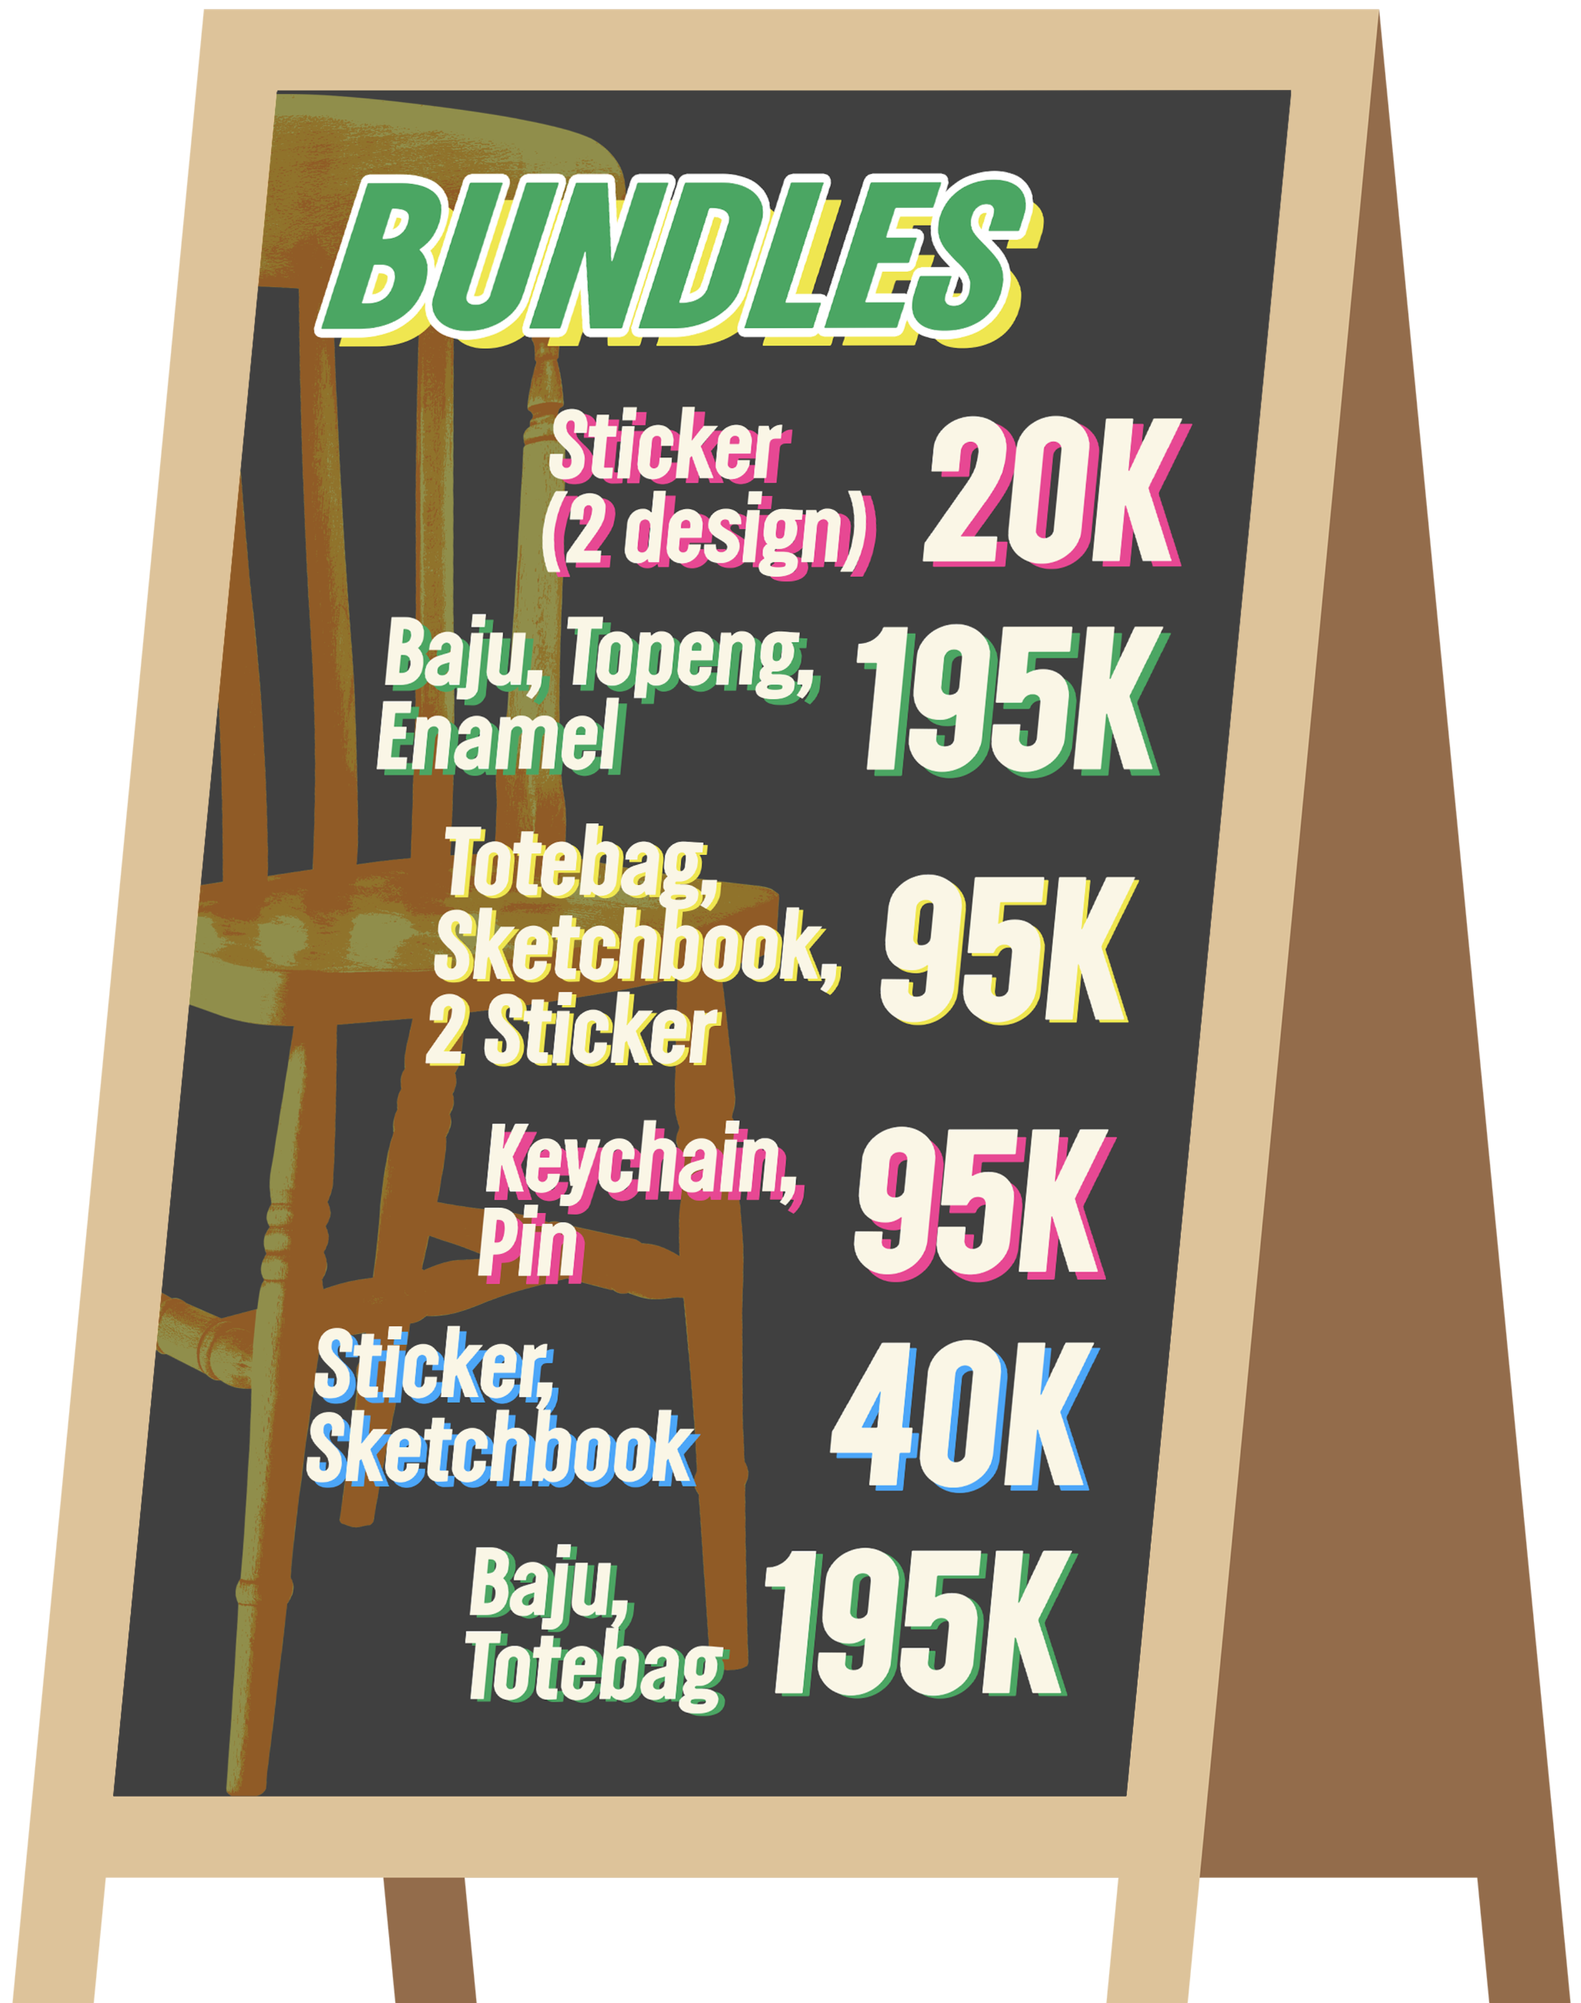
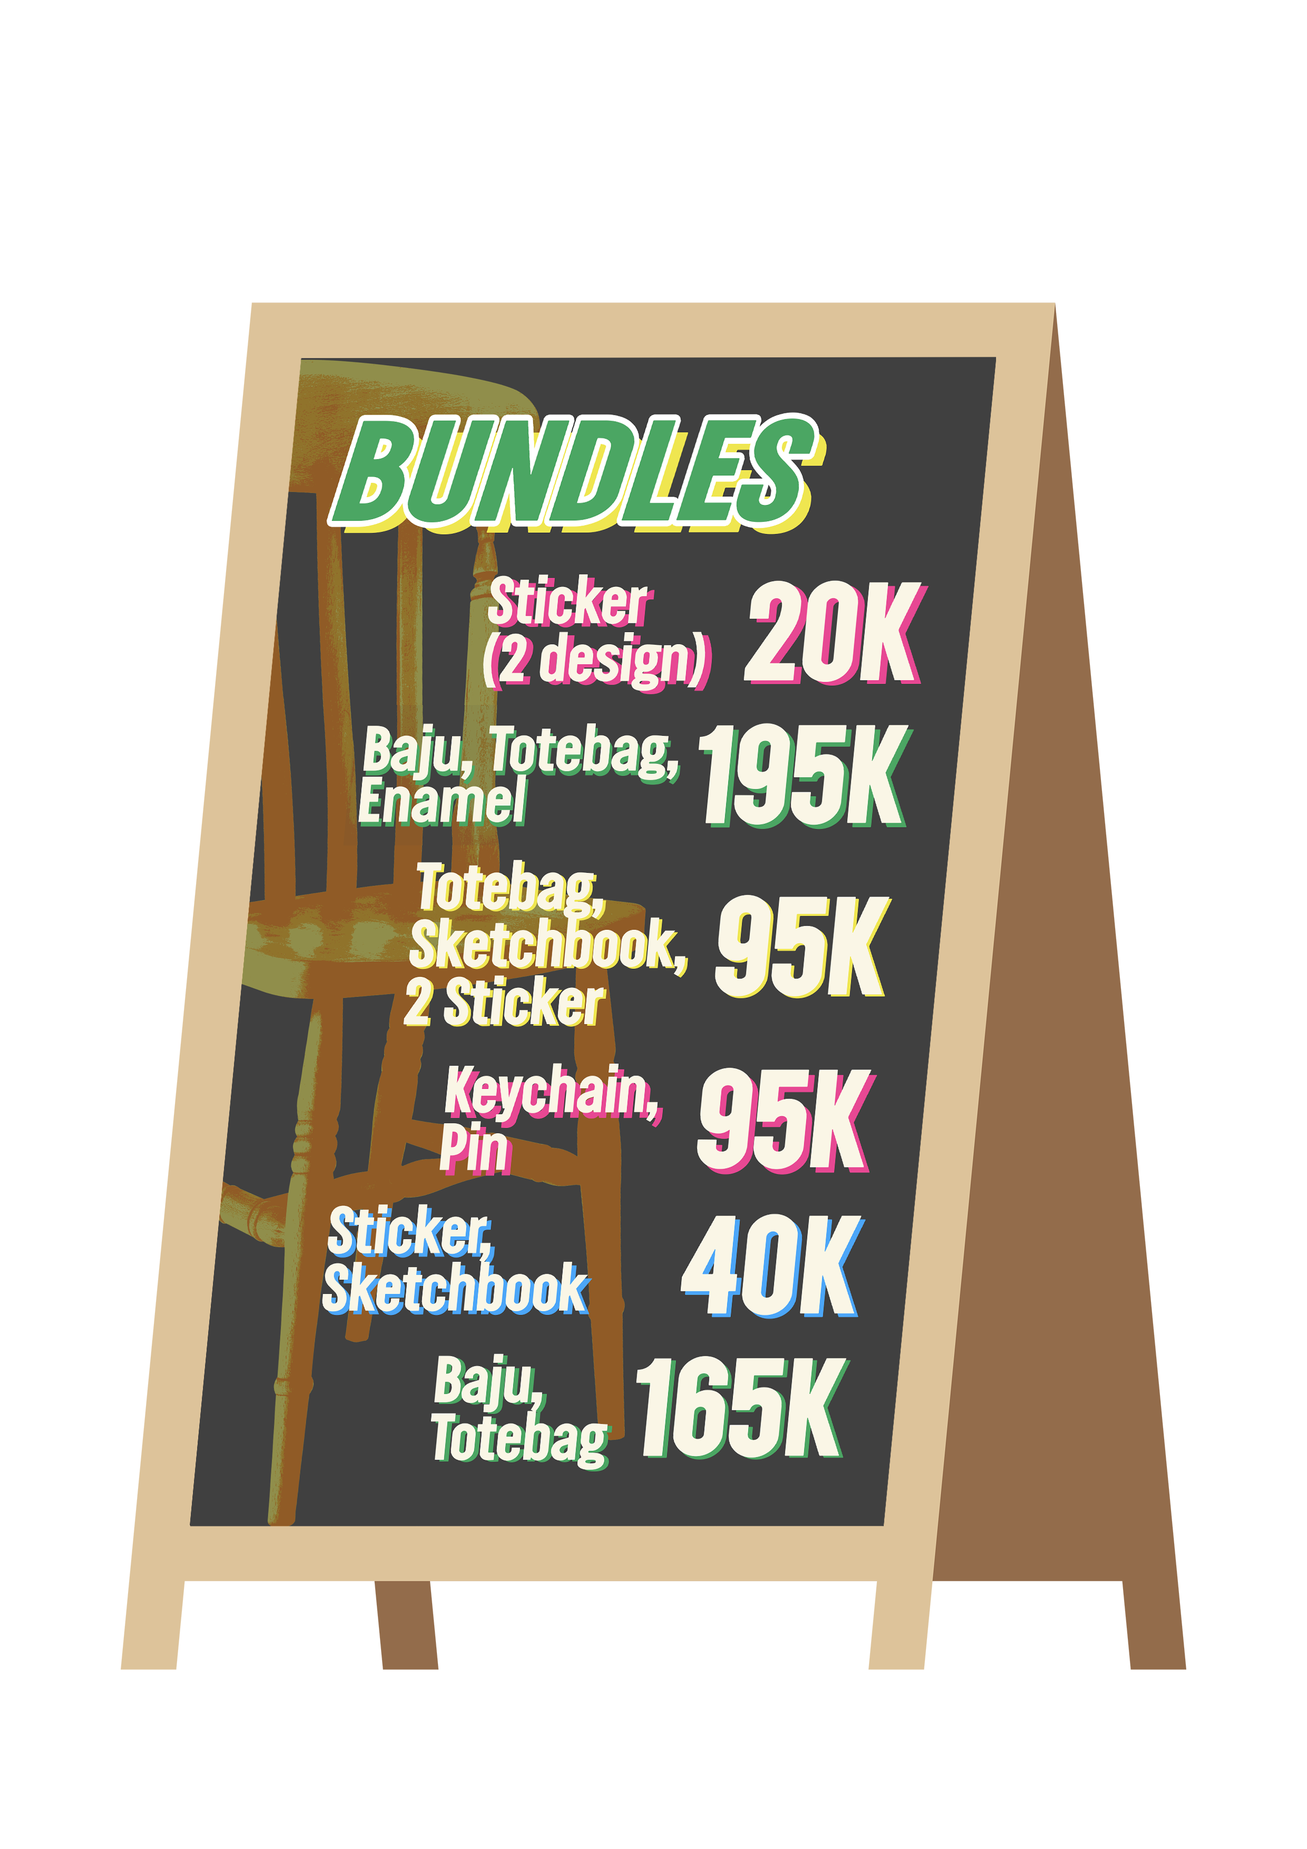
Feat: Merch Page + Merch Section Update

diff --git a/resources/views/merch.blade.php b/resources/views/merch.blade.php
@@ -8,6 +8,7 @@
             transform: translateY(-5px);
             transition: all 0.3s ease;
             pointer-events: none;
+            z-index: 999 !important;
         }
 
         .price-tag.show {
@@ -95,6 +96,41 @@
             transform: translateY(0);
             animation: windSway 2s ease-in-out infinite;
         }
+
+        /* === MOBILE STYLES === */
+        @media (max-width: 768px) {
+            .price-tag {
+                width: 150% !important;
+                bottom: -50% !important;
+                z-index: 999 !important;
+            }
+
+            /* Adjust the price tags for specific product groups if needed */
+            #shirts .price-tag {
+                width: 50% !important;
+                /* top: -10% !important; */
+                /* left: -10% !important; */
+            }
+
+            #bags .price-tag {
+                width: 100% !important;
+                top: -10% !important;
+                right: -30% !important;
+            }
+
+            #keys .price-tag {
+                width: 500% !important;
+            }
+
+            #enamels .price-tag {
+                width: 300% !important;
+            }
+
+            .product-active .price-tag {
+                animation: none;
+                /* Disable wind sway animation on mobile */
+            }
+        }
     </style>
     <script src="https://cdnjs.cloudflare.com/ajax/libs/gsap/3.12.2/gsap.min.js"></script>
 @endsection
@@ -103,16 +139,19 @@
     <div
         class="w-full min-h-screen bg-[url('{{ asset('overlay/fiber.png') }}')] flex items-center justify-center p-2 pb-4 pt-2 sm:pb-6 sm:pt-3 lg:p-8">
         <div class="w-full h-full relative z-10 flex flex-col justify-center items-center">
-            <h1
-                class="font-primary skew-x-[-12deg] text-[var(--pink)] leading-none
-               text-[calc(clamp(2rem,8vw,10rem)*2.5)]">
+            <h1 class="font-primary skew-x-[-12deg] text-[var(--pink)] leading-none
+                                       text-[calc(clamp(2rem,8vw,10rem)*2.5)]">
                 TKMDII
             </h1>
-            <h1
-                class="font-primary mt-[-10%] text-[var(--blue)] mix-blend-multiply leading-none
-               text-[calc(clamp(2rem,8vw,10rem)*2.5)]">
+            <h1 class="font-primary mt-[-10%] text-[var(--blue)] mix-blend-multiply leading-none
+                                       text-[calc(clamp(2rem,8vw,10rem)*2.5)]">
                 OFFICIAL
             </h1>
+            <div class="text-center">
+                <p class="font-primary text-base sm:text-xl lg:text-2xl text-[var(--green)] uppercase animate-pulse">
+                    Tap items to see the prices
+                </p>
+            </div>
             <div class="relative w-full max-w-6xl mb-[5%]">
                 <img src="{{ asset('assets/merchs/market.png') }}" class="w-full h-auto object-contain" alt="Market">
 
@@ -254,8 +293,7 @@
                         <img src="{{ asset('assets/merchs/key1.png') }}"
                             style="filter: drop-shadow(-0.25px 0.25px 0.25px #000);"
                             class="w-full z-[6] h-full object-contain" alt="Key1">
-                        <div
-                            class="absolute w-[100%] bottom-[-95%] z-[5] flex justify-center items-start h-full price-tag">
+                        <div class="absolute w-[100%] bottom-[-95%] z-[5] flex justify-center items-start h-full price-tag">
                             <img src="{{ asset('assets/merchs/priceTag/key1.png') }}"
                                 style="filter: drop-shadow(-1.5px 0 2px #513724);" class="w-1/4 h-auto object-contain"
                                 alt="Key1 Price">
@@ -266,8 +304,7 @@
                         <img src="{{ asset('assets/merchs/key2.png') }}"
                             style="filter: drop-shadow(-0.25px 0.25px 0.25px #000);"
                             class="w-full rotate-[20deg] z-[5] absolute h-full object-contain" alt="Key2">
-                        <div
-                            class="absolute w-[100%] bottom-[-95%] z-[4] flex justify-center items-start h-full price-tag">
+                        <div class="absolute w-[100%] bottom-[-95%] z-[4] flex justify-center items-start h-full price-tag">
                             <img src="{{ asset('assets/merchs/priceTag/key2.png') }}"
                                 style="filter: drop-shadow(-1.5px 0 2px #513724);" class="w-1/4 h-auto object-contain"
                                 alt="Key2 Price">
@@ -279,7 +316,7 @@
                             style="filter: drop-shadow(-0.25px 0.25px 0.25px #000);"
                             class="w-full h-full z-[7] object-contain object-left" alt="Key3">
                         <div
-                            class="absolute w-[125%] left-[18%] bottom-[-95%] z-[6] flex justify-start items-start h-full price-tag">
+                            class="absolute w-[150%] left-[18%] bottom-[-95%] z-[6] flex justify-start items-start h-full price-tag">
                             <img src="{{ asset('assets/merchs/priceTag/key3.png') }}"
                                 style="filter: drop-shadow(-1.5px 0 2px #513724);" class="w-1/4 h-auto object-contain"
                                 alt="Key3 Price">
@@ -325,8 +362,8 @@
                     {{-- shadow Bag1 --}}
                     <div class="w-[52.5%] top-0 left-[-3.5%] absolute h-full z-[2] flex justify-center items-center bg-[#7F5537]"
                         style="
-                        -webkit-mask: url('{{ asset('assets/merchs/bag11.png') }}') no-repeat top / contain;
-                        mask: url('{{ asset('assets/merchs/bag11.png') }}') no-repeat top / contain;">
+                                                -webkit-mask: url('{{ asset('assets/merchs/bag11.png') }}') no-repeat top / contain;
+                                                mask: url('{{ asset('assets/merchs/bag11.png') }}') no-repeat top / contain;">
                     </div>
                     <div class="w-[52.5%] h-full z-[4] flex justify-center items-end product-item product-idle"
                         data-product="bag1">
@@ -347,8 +384,8 @@
                     {{-- shadow Bag2 --}}
                     <div class="w-[47.5%] top-0 left-[17.5%] absolute h-full z-[2] flex justify-center items-center bg-[#7F5537]"
                         style="
-                        -webkit-mask: url('{{ asset('assets/merchs/bag21.png') }}') no-repeat top / contain;
-                        mask: url('{{ asset('assets/merchs/bag21.png') }}') no-repeat top / contain;">
+                                                -webkit-mask: url('{{ asset('assets/merchs/bag21.png') }}') no-repeat top / contain;
+                                                mask: url('{{ asset('assets/merchs/bag21.png') }}') no-repeat top / contain;">
                     </div>
                 </div>
             </div>
@@ -356,29 +393,25 @@
             <div class="absolute bottom-[-7.8%] right-[-0.8%] z-10 w-[22%] h-[26.5%] flex justify-center items-center">
                 {{-- Replace the existing buyHere button section with this more responsive version --}}
 
-                <div
-                    class="absolute bottom-0 right-0 z-10 w-full max-w-[300px] sm:max-w-[350px] lg:max-w-[400px] 
-            h-auto flex justify-end items-end p-2 sm:p-4">
+                <div class="absolute bottom-0 right-0 z-10 w-full max-w-[300px] sm:max-w-[350px] lg:max-w-[400px] 
+                                    h-auto flex justify-end items-end p-2 sm:p-4">
 
                     {{-- Buy Here Button - More Responsive Version --}}
-                    <button id="buyHere" onclick="window.location.href = 'https://forms.gle/Y388qsN1KUVPxA1s6'"
-                        class="relative z-[9] mb-4 mr-2 sm:mb-6 sm:mr-4 lg:mb-8 lg:mr-6
-               cursor-pointer flex justify-center items-center 
-               font-secondary font-bold uppercase 
-               text-[#fff]
-               px-3 sm:px-4 sm:py-2 lg:px-6 lg:py-2.5
-               transition-all duration-300 ease-out 
-               text-sm sm:text-base lg:text-lg xl:text-xl
-               focus:outline-none
-               min-w-[80px] sm:min-w-[100px] lg:min-w-[120px]
-               whitespace-nowrap">
+                    <button id="buyHere" onclick="window.location.href = 'https://forms.gle/Y388qsN1KUVPxA1s6'" class="relative z-[9] mb-4 mr-2 sm:mb-6 sm:mr-4 lg:mb-8 lg:mr-6
+                                       cursor-pointer flex justify-center items-center 
+                                       font-secondary font-bold uppercase 
+                                       text-[#fff]
+                                       px-3 sm:px-4 sm:py-2 lg:px-6 lg:py-2.5
+                                       transition-all duration-300 ease-out 
+                                       text-sm sm:text-base lg:text-lg xl:text-xl
+                                       focus:outline-none
+                                       min-w-[80px] sm:min-w-[100px] lg:min-w-[120px]
+                                       whitespace-nowrap">
                         <span class="relative z-10">BUY HERE</span>
                     </button>
 
-                    <img src="{{ asset('assets/merchs/priceList.png') }}"
-                        class="w-full max-w-[200px] sm:max-w-[250px] lg:max-w-[300px] 
-                h-auto object-contain"
-                        alt="Products Price List">
+                    <img src="{{ asset('assets/merchs/priceList.png') }}" class="w-full max-w-[200px] sm:max-w-[250px] lg:max-w-[300px] 
+                                        h-auto object-contain" alt="Products Price List">
                 </div>
 
                 <style>
@@ -502,14 +535,17 @@
                     }
                 </style>
 
-                <img src="{{ asset('assets/merchs/priceList.png') }}" class="w-full z-[10] h-full object-fill"
-                    alt="Products Price List">
+                <img id="priceList" src="{{ asset('assets/merchs/priceList.png') }}"
+                    class="w-full z-[10] h-full cursor-pointer  object-fill" alt="Products Price List">
             </div>
         </div>
+       
     </div>
 
+
     <script>
-        document.addEventListener('DOMContentLoaded', function() {
+        document.addEventListener('DOMContentLoaded', function () {
+
             const productItems = document.querySelectorAll('.product-item');
             let activeProducts = new Set();
 
@@ -682,5 +718,57 @@
                 stagger: 0.5
             });
         });
+        // Price List Modal functionality
+        const priceListImage = document.getElementById('priceList');
+        const modal = document.getElementById('priceListModal');
+        const closeModal = document.getElementById('closeModal');
+
+        if (priceListImage && modal && closeModal) {
+            priceListImage.addEventListener('click', () => {
+                modal.classList.remove('hidden');
+                document.body.style.overflow = 'hidden';
+            });
+
+            closeModal.addEventListener('click', () => {
+                modal.classList.add('hidden');
+                document.body.style.overflow = 'auto';
+            });
+
+            // Close modal when clicking outside the image
+            modal.addEventListener('click', (e) => {
+                if (e.target === modal) {
+                    modal.classList.add('hidden');
+                    document.body.style.overflow = 'auto';
+                }
+            });
+
+            // Close modal with Escape key
+            document.addEventListener('keydown', (e) => {
+                if (e.key === 'Escape' && !modal.classList.contains('hidden')) {
+                    modal.classList.add('hidden');
+                    document.body.style.overflow = 'auto';
+                }
+            });
+
+            
+        }
     </script>
+    
 @endsection
+
+        <!-- Price List Modal -->
+<div id="priceListModal"
+    class="fixed inset-0 z-[9999] hidden isolate bg-black/80 backdrop-blur-sm flex items-center justify-center p-4">
+    <div class="relative w-full h-full flex items-center justify-center">
+        <button id="closeModal"
+            class="absolute top-4 right-4 bg-white/90 hover:bg-white cursor-pointer text-black rounded-full p-2 transition-colors duration-200">
+            <svg class="w-6 h-6" fill="none" stroke="currentColor" viewBox="0 0 24 24">
+                <path stroke-linecap="round" stroke-linejoin="round" stroke-width="2" d="M6 18L18 6M6 6l12 12" />
+            </svg>
+        </button>
+
+        <img src="{{ asset('assets/merchs/priceList.png') }}" 
+            class="max-w-full max-h-full object-contain z-[9999]"
+            alt="Products Price List - Full View">
+    </div>
+</div>

diff --git a/resources/views/partials/merch.blade.php b/resources/views/partials/merch.blade.php
@@ -7,6 +7,7 @@
         right: 0;
         background-repeat: repeat;
         background-image: url({{ asset('overlay/halftone.png') }});
+        background-size: 75%;
         mix-blend-mode: multiply;
         pointer-events: none;
         z-index: 0;
@@ -14,24 +15,68 @@
         width: 200%;
         height: 100%;
     }
+
+    .reveal-btn {
+        position: relative;
+        overflow: hidden;
+        display: inline-block;
+        background: var(--green);
+        /* warna default hijau */
+    }
+
+    .reveal-btn::before {
+        content: "";
+        position: absolute;
+        inset: 0;
+        background: var(--pink);
+        transform: translateX(-100%);
+        transition: transform 0.6s ease;
+        z-index: 1;
+    }
+
+    .reveal-btn span {
+        position: relative;
+        z-index: 2;
+        display: inline-block;
+        /* opacity: 0.9; */
+        transition: all 0.6s ease;
+    }
+
+    /* efek hover */
+    .reveal-btn:hover::before {
+        transform: translateX(0);
+    }
+
+    /* 
+    .reveal-btn:hover span {
+        opacity: 1;
+    } */
 </style>
-<div class="relative w-full h-auto">
+<div class="relative w-full h-auto pb-10">
     <div class="overlay7"></div>
-    <div class="relative flex justify-center items-center">
-        <img src="{{ asset('assets/merch1.png') }}" alt="Background Image" class="absolute z-0 w-full h-full">
-        <img src="{{ asset('assets/merch3.png') }}" alt="Foreground Image" class="relative z-10 max-w-[50%]">
-        <div class="absolute z-20 items-center flex flex-col lg:gap-6">
+    <div class="relative flex justify-center items-center"> <img src="{{ asset('assets/merch1.png') }}"
+            alt="Background Image" class="absolute z-0 w-full h-full">
+        <!-- <img src="{{ asset('assets/merch3.png') }}" alt="Foreground Image" class="relative z-10 max-w-[50%]"> -->
+        <div class="z-20 items-center flex flex-col">
             <p data-aos="zoom-out"
-                class="merch w-[80%] h-[120%] lg:text-8xl text-4xl text-center font-primary text-[var(--yellow)] bg-[var(--blue)] inline-block">
+                class="merch h-[100%] lg:text-8xl text-4xl text-center font-primary text-[var(--yellow)] bg-[var(--blue)] inline-block">
                 MERCH</p>
-            <p data-aos="zoom-out"
-                class="coming-soon rotate-3 w-[120%] h-[120%] lg:text-8xl text-4xl text-center font-primary text-[var(--pink)] bg-[var(--yellow)] inline-block">
-                COMING SOON</p>
+            <div class="relative flex justify-center w-full md:w-[80%]">
+                <img src="{{ asset('assets/shelf.png') }}" alt="Merch Catalog" class="w-full">
+                <a href="{{ route('merch') }}" data-aos="zoom-out"
+                    class="absolute bottom-0 translate-y-[50%] px-4 py-2 md:px-8 md:py-3 text-shadow-lg lg:text-5xl text-3xl font-primary text-white bg-[var(--green)] cursor-pointer transition-all duration-300 group overflow-hidden">
+                    <span class="relative z-10">SEE MORE</span> <span
+                        class="absolute inset-0 bg-[var(--pink)] translate-y-full group-hover:translate-y-0 transition-transform duration-500 ease-out"></span>
+                </a>
+            </div>
         </div>
     </div>
-</div>
 
+    <!-- <img src="{{ asset('assets/merch3.png') }}" alt="Foreground Image" class="relative z-10 max-w-[50%]"> -->
 
-<script>
+    <!-- <p data-aos="zoom-out"
+                class="coming-soon rotate-3 w-[120%] h-[120%] lg:text-8xl text-4xl text-center font-primary text-[var(--pink)] bg-[var(--yellow)] inline-block">
+                COMING SOON</p> -->
+    <script>
 
-</script>
+    </script>

diff --git a/resources/views/partials/navbar.blade.php b/resources/views/partials/navbar.blade.php
@@ -9,12 +9,18 @@
         transition: all 0.3s ease;
     }
 
+    .nav-link:hover {
+        color: #efe650 !important;
+    }
+
+
     @media (hover: hover) {
         .nav-link:hover {
-            /* color: #e74893 !important; */
-            color: #efe650 !important;
+            color: #e74893 !important;
         }
     }
+
+
 
     @media (hover: none) {
         .nav-link:hover {

diff --git a/routes/web.php b/routes/web.php
@@ -15,7 +15,7 @@ Route::get('/timeline', function () {
 })->name('timeline');
 
 Route::get('/merch', function () {
-    return view('merch', ['title' => 'Merchs']);
+    return view('merch', ['title' => 'Merchandise']);
 })->name('merch');
 
 // Route::fallback(function () {
